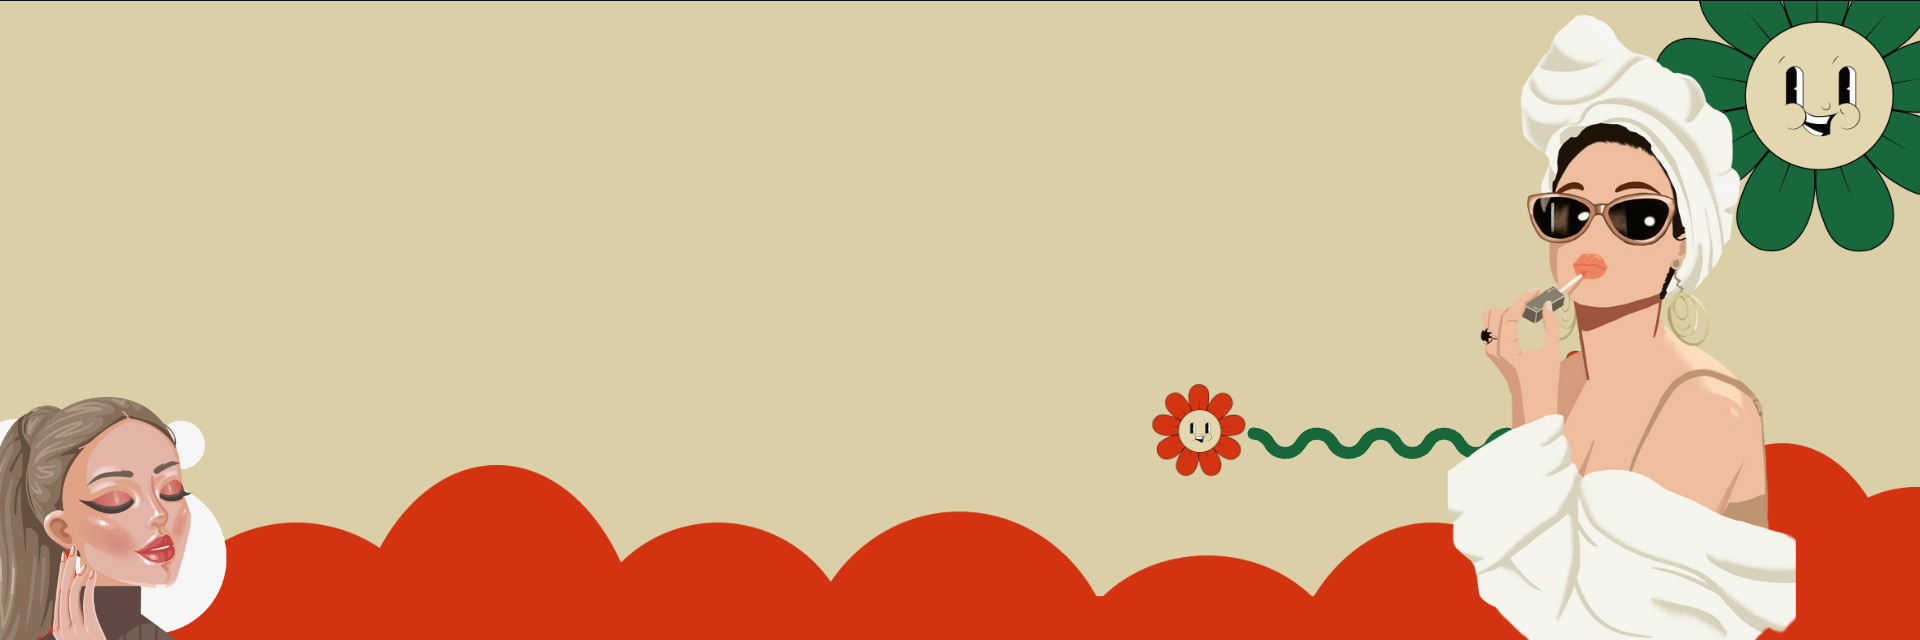
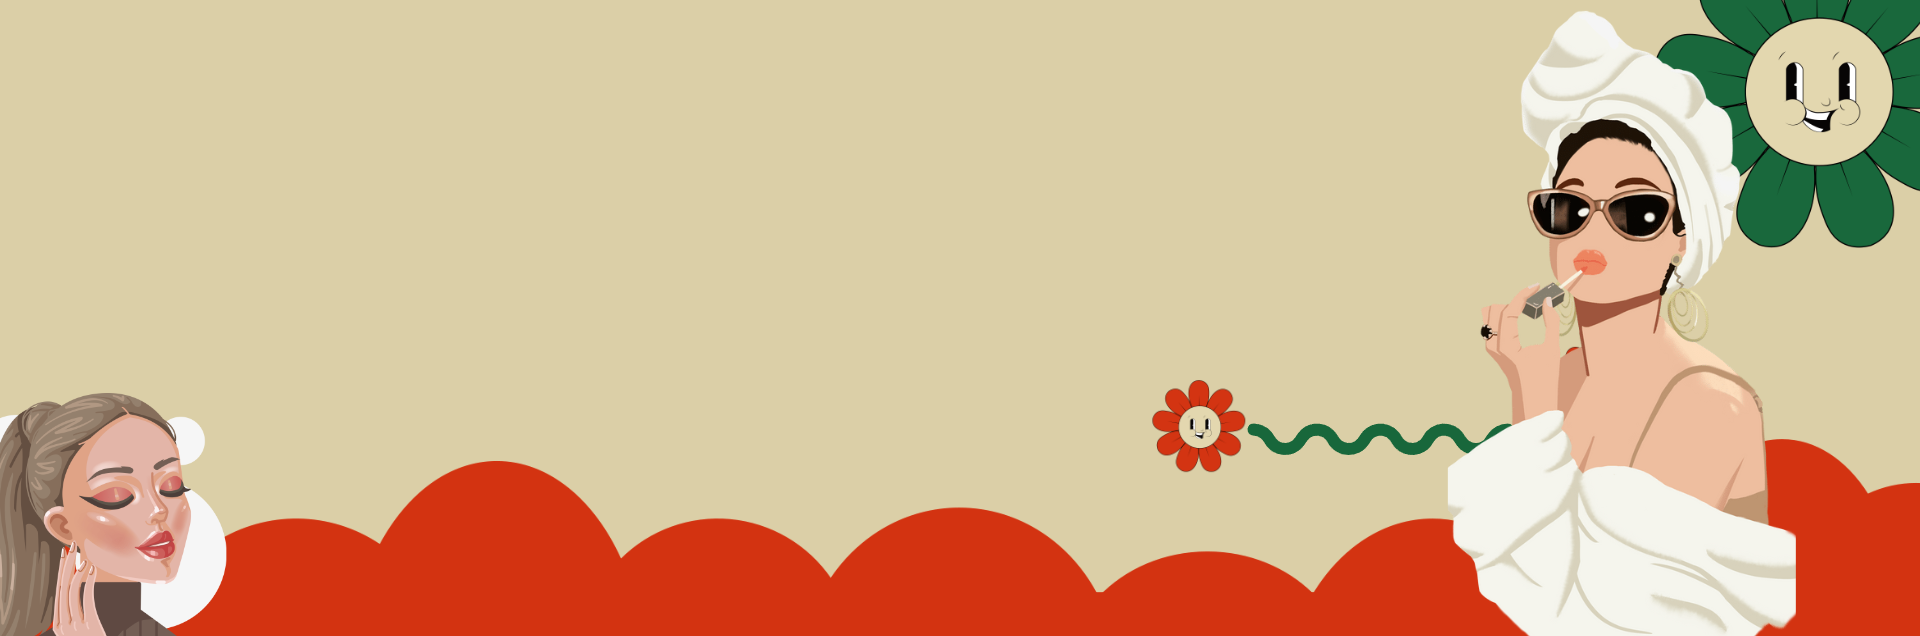
update-fix-bug-scroll-x

diff --git a/src/pages/Home/index.tsx b/src/pages/Home/index.tsx
@@ -17,36 +17,15 @@ export const Home = () => {
       </Box>
 
       <Motion>
-        <Box mt="44px" py="36px" pos="relative" overflow="hidden">
+        <Box mt="44px" py={"36px"} pos="relative" overflow="hidden">
           <BestSellers />
-          <Box
-            pos="absolute"
-            right={{ base: "-12px", lg: "44px" }}
-            top={{ base: "-12px", md: "68px" }}
-          >
-            <MotionSon>
-              <Image w={{ base: "200px", md: "400px" }} src="/son-thoi.png" />
-            </MotionSon>
-          </Box>
-
-          <Box
-            pos="absolute"
-            left={{ base: "20px", lg: "-160px" }}
-            top={{ base: "-20px", md: "-40px", lg: "20%" }}
-          >
-            <MotionHoa>
-              <Image
-                w={{ base: "150px", md: "300px", lg: "700px" }}
-                src="/hoa.png"
-              />
-            </MotionHoa>
-          </Box>
         </Box>
       </Motion>
 
       <Box
         mt="80px"
-        py="36px"
+        pt="42px"
+        pb="36px"
         bg="pink.50"
         minH="400"
         pos="relative"
@@ -57,24 +36,16 @@ export const Home = () => {
             <Categories />
           </Motion>
         )}
-        <Box pos="absolute" top="20%" right={{ base: "-10px", lg: "0" }}>
-          <MotionHoa>
-            <Image
-              w={{ base: "150px", md: "200px", lg: "300px" }}
-              src="/hoa-hong-2.png"
-            />
-          </MotionHoa>
-        </Box>
       </Box>
       <Box mt="80px" py="36px" minH="400">
-        {scrollTop > 1450 && (
+        {scrollTop > 1400 && (
           <Motion>
             <Blogs />
           </Motion>
         )}
       </Box>
       <Box mt="80px" py="36px" bg="pink.50" minH="400">
-        {scrollTop > 2450 && (
+        {scrollTop > 2400 && (
           <Motion>
             <FeedBack />
           </Motion>

diff --git a/src/Components/Section.tsx b/src/Components/Section.tsx
@@ -3,6 +3,7 @@ import {
   Button,
   Center,
   Heading,
+  Image,
   Text,
   useBreakpointValue,
 } from "@chakra-ui/react";
@@ -10,20 +11,30 @@ import { useState } from "react";
 import { Link } from "react-router-dom";
 import Slider from "react-slick";
 import { IconArrow } from "./IconArrow";
+import { MotionAfter } from "./Motions";
 
 interface ITabProduct {
   title: string;
   subTitle: string;
   path?: string;
+  after?: React.ReactNode;
   children: React.ReactNode;
 }
 
 export const SectionModel = (props: ITabProduct) => {
-  const { title, subTitle, path = "/", children } = props;
+  const { title, subTitle, path = "/", after, children } = props;
   return (
     <Box>
-      <Center>
+      <Center pos="relative" pt={{ base: "70px", lg: 0 }}>
         <Heading>{title}</Heading>
+        <Box
+          pos="absolute"
+          right={{ base: "50%", lg: "200px" }}
+          top={{ base: "-20px", lg: "50%" }}
+          transform={{ base: "translate(50%, 0)", lg: "translate(0, -50%)" }}
+        >
+          {after && <MotionAfter>{after}</MotionAfter>}
+        </Box>
       </Center>
       <Center mb="24px">
         <Text textAlign="center" color="gray.600">

diff --git a/src/pages/Home/Blogs.tsx b/src/pages/Home/Blogs.tsx
@@ -2,15 +2,19 @@ import { SectionModel } from "../../Components/Section";
 import { CardBlog } from "../../Components/CardBlog";
 import { Container } from "@chakra-ui/react";
 import { Box } from "@chakra-ui/react";
+import { Image } from "@chakra-ui/react";
 
 export const Blogs = () => {
   return (
-    <Box>
+    <Box overflow="hidden" pt="32px">
       <Container maxW="6xl">
         <SectionModel
           title="Tin tức"
           subTitle="Cập nhật tin tức mới nhất"
           path="/tin-tuc"
+          after={
+            <Image w={{ base: "80px", lg: "120px" }} src="/hoa-hong-2.png" />
+          }
         >
           {[1, 2, 3, 4, 5].map((number) => (
             <Box px="10px" py="12px" key={number}>

diff --git a/src/pages/Home/Categories.tsx b/src/pages/Home/Categories.tsx
@@ -1,6 +1,7 @@
 import { Box, Container, Stack } from "@chakra-ui/react";
 import { CardCat } from "../../Components/CardCat";
 import { SectionModel } from "../../Components/Section";
+import { Image } from "@chakra-ui/react";
 
 export const Categories = () => {
   return (
@@ -9,6 +10,7 @@ export const Categories = () => {
         title="Categories"
         subTitle="the readable content of a page when looking at its layout. The point of using Lorem Ipsum is that"
         path="/danh-sach-san-pham"
+        after={<Image w={{ base: "50px", lg: "80px" }} src="/son-thoi.png" />}
       >
         {[1, 2, 3, 4, 5, 6].map((number) => (
           <Box px="10px" py="12px" key={number}>

diff --git a/src/pages/Home/BestSellers.tsx b/src/pages/Home/BestSellers.tsx
@@ -1,4 +1,4 @@
-import { Box, Container, Stack } from "@chakra-ui/react";
+import { Box, Container, Stack, Image } from "@chakra-ui/react";
 import { SectionModel } from "../../Components/Section";
 import { CardProduct } from "../../Components/CardProduct";
 
@@ -9,6 +9,7 @@ export const BestSellers = () => {
         title="Best Seller"
         subTitle="the readable content of a page when looking at its layout. The point of using Lorem Ipsum is"
         path="/danh-sach-san-pham"
+        after={<Image w={{ base: "150px", lg: "200px" }} src="/hoa.png" />}
       >
         {[1, 2, 3, 4, 5, 6].map((number) => (
           <Box px="10px" py="12px" key={number}>

diff --git a/src/Components/Motions.tsx b/src/Components/Motions.tsx
@@ -1,0 +1,22 @@
+import { motion } from "framer-motion";
+import { ReactNode } from "react";
+
+interface IMotion {
+  children: ReactNode;
+}
+
+export const MotionAfter = (props: IMotion) => {
+  const { children } = props;
+  return (
+    <motion.div
+      animate={{ rotate: ["-5deg", 0] }}
+      transition={{
+        duration: 2,
+        repeat: Infinity,
+        repeatDelay: 1,
+      }}
+    >
+      {children}
+    </motion.div>
+  );
+};
